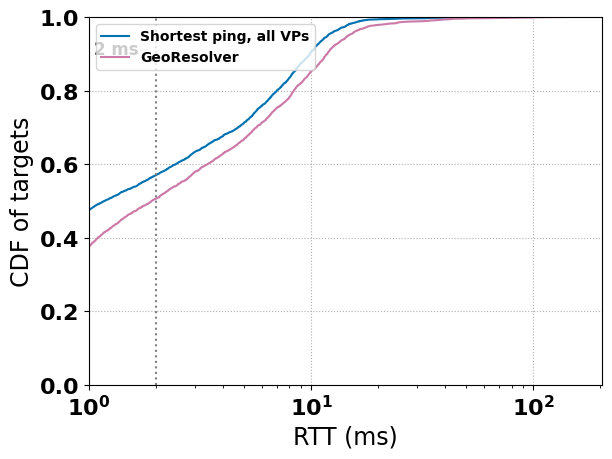
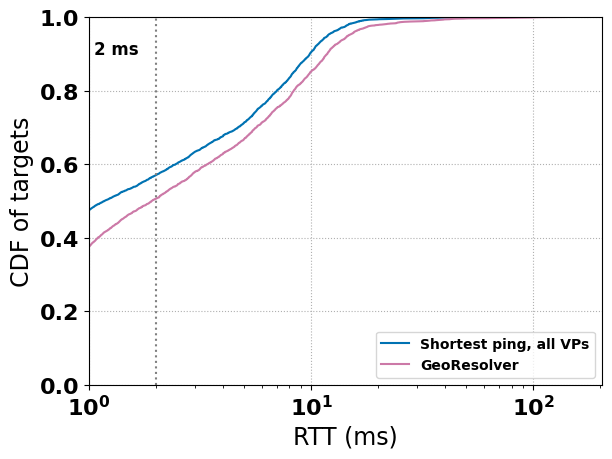
eval fixe

Changed region(s): [[0.1552, 0.061, 0.5278, 0.1525], [0.683, 0.732, 0.9624, 0.8235], [0.6209, 0.732, 0.652, 0.7625]]

diff --git a/georesolver/evaluation/pop_redirection_evaluation.py b/georesolver/evaluation/pop_redirection_evaluation.py
@@ -285,8 +285,13 @@ def latency_eval() -> None:
 
     # 3. get redirection ping and calculate rank per pair (hostname; vp)
     percentile_per_hostname = defaultdict(list)
+    percentile_per_hostname_vp = defaultdict(list)
     for vp_addr, pings_per_hostname in tqdm(pings_per_vp_hostname.items()):
         for hostname, all_hostname_pings in pings_per_hostname.items():
+            # some vps do not have enought measurements to a given hostname
+            if len(all_hostname_pings) < 10:
+                continue
+
             try:
                 # retrieved all answer subnets, if exists
                 answer_subnets = vps_ecs_mapping[get_prefix_from_ip(vp_addr)][hostname]
@@ -296,12 +301,16 @@ def latency_eval() -> None:
                 try:
                     # get redirection ping, if exists
                     redirection_pings = pings_per_vp[vp_addr][answer_subnet]
+
                     for _, min_rtt in redirection_pings:
                         # get rank of redirection ping
                         percentile = compute_percentile_rank(
                             min_rtt, all_hostname_pings
                         )
                         # save percentile per hostname
+                        percentile_per_hostname_vp[(hostname, vp_addr)].append(
+                            percentile
+                        )
                         percentile_per_hostname[hostname].append(percentile)
 
                 except KeyError:
@@ -314,11 +323,21 @@ def latency_eval() -> None:
     for hostname, percentiles in percentile_per_hostname.items():
         avg_percentiles.append(np.average(percentiles))
 
+    avg_percentiles_per_hostname_vp = []
+    for percentiles in percentile_per_hostname_vp.values():
+        avg_percentiles_per_hostname_vp.extend(percentiles)
+
+    cdfs = []
+    # accross subnet (per hostname) results
     x, y = ecdf(avg_percentiles)
-    plot_cdf(
-        x=x,
-        y=y,
-        x_lim_left=0,
+    cdfs.append((x, y, "Per hostname"))
+    # per pair (hostname; vp)
+    x, y = ecdf(avg_percentiles_per_hostname_vp)
+    cdfs.append((x, y, "pair (hostname; vp)"))
+
+    plot_multiple_cdf(
+        cdfs=cdfs,
+        x_limit_left=0,
         output_path="cdf_avg_percentile_latency_per_hostname",
         x_label="avg latency percentile \n accross VPs subnet",
         y_label="fraction of hostnames",
@@ -533,6 +552,7 @@ def cdn_meshed_vs_georesolver() -> None:
         cdfs=cdfs,
         output_path="cdns_latencies_comparison",
         metric_evaluated="rtt",
+        legend_pos="lower right",
     )
 
 
@@ -545,8 +565,8 @@ def main() -> None:
     """
     do_measurement: bool = False
     do_latency_eval: bool = False
-    do_geo_eval: bool = False
-    do_georesolver_comparison: bool = True
+    do_geo_eval: bool = True
+    do_georesolver_comparison: bool = False
 
     prev_schedule_path: Path = (
         path_settings.MEASUREMENTS_SCHEDULE

diff --git a/georesolver/evaluation/subnet_aggregation.py b/georesolver/evaluation/subnet_aggregation.py
@@ -313,7 +313,7 @@ def plot_latency_diff(georesolver_results: dict, reduced_results: dict) -> None:
 
 def main() -> None:
     """
-    we ought to evaluate three thinks:
+    we ought to evaluate three things:
         1. The fraction of IP addresses we geolocate within the same area within each /24
         (using latency and elected VP)
         2. Evaluate the same metric but for each AS type (as we did for continental geoloc)

diff --git a/georesolver/evaluation/evaluation_plot_functions.py b/georesolver/evaluation/evaluation_plot_functions.py
@@ -156,7 +156,7 @@ def plot_cdf(
 def plot_multiple_cdf(
     cdfs: list,
     output_path: str,
-    metric_evaluated: str,
+    metric_evaluated: str = "",
     legend_outside: str = False,
     legend_pos: str = "upper left",
     legend_size: int = 10,
